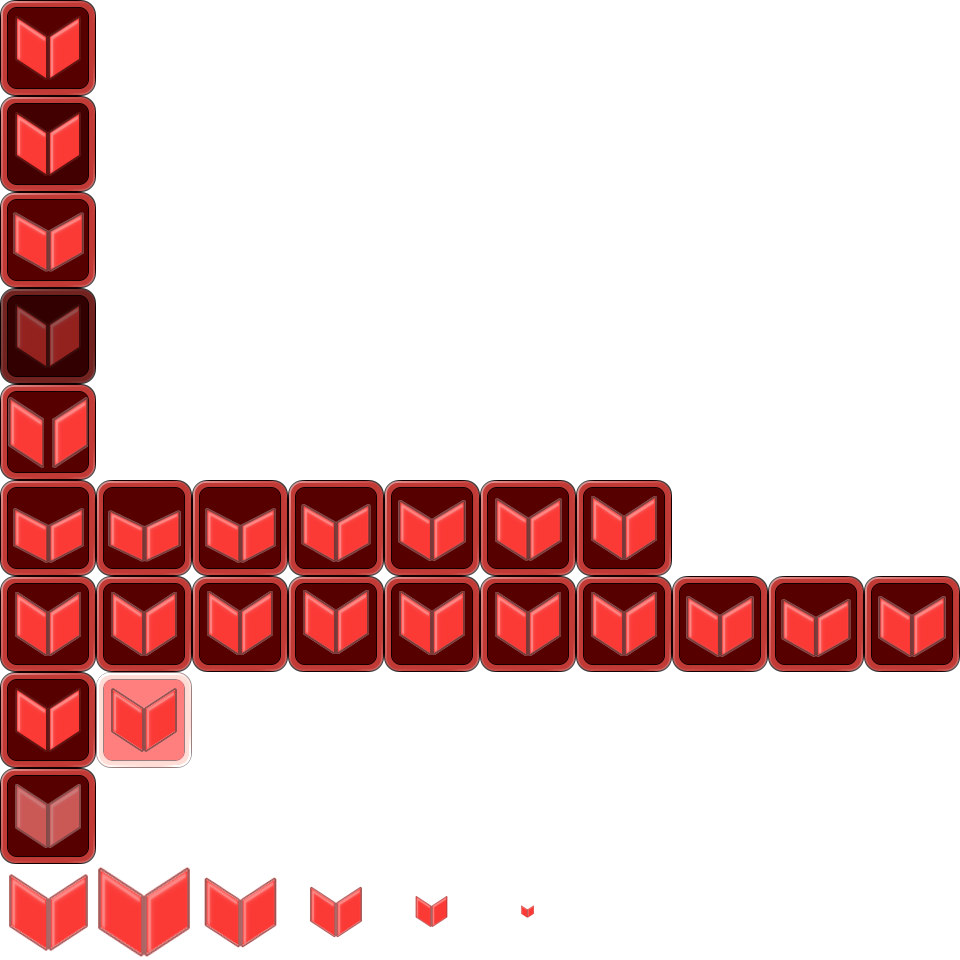
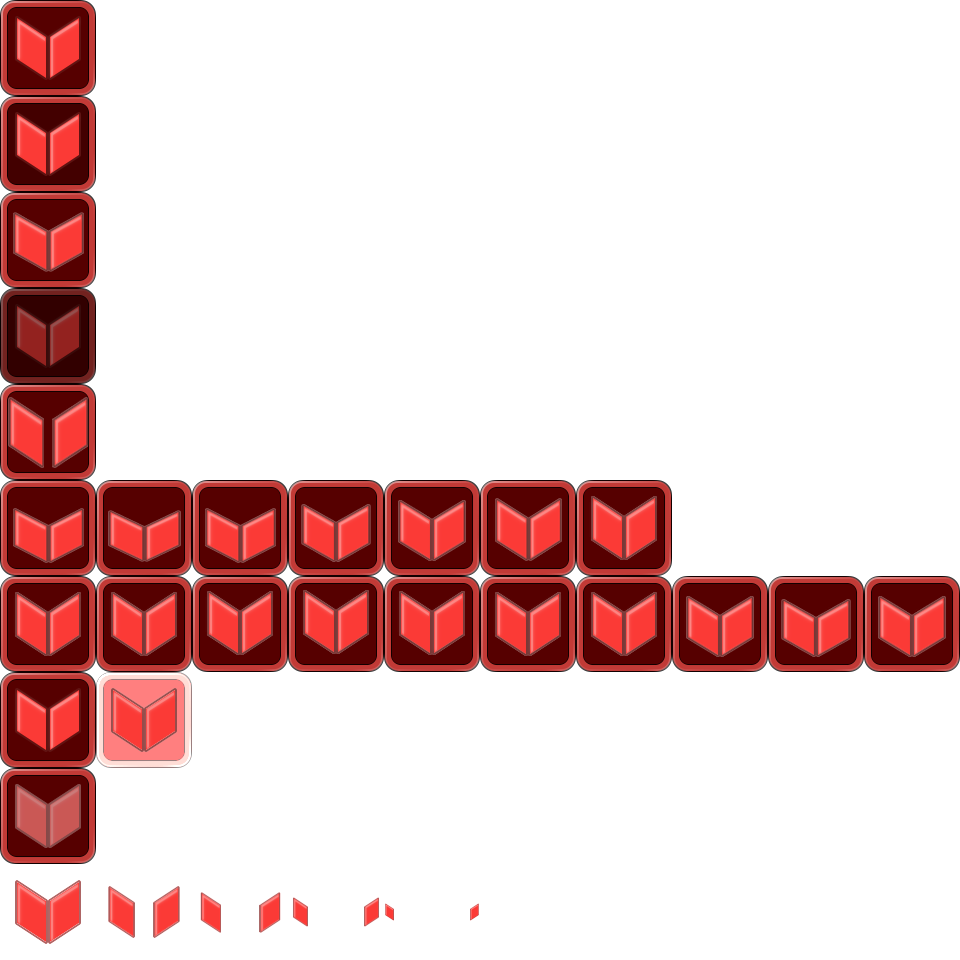
Add support for resizing split and use it for pop animation

Changed region(s): [[0.0, 0.9062, 0.5, 1.0], [0.5312, 0.9375, 0.5625, 0.9688]]

diff --git a/Panels/CreatePanels.py b/Panels/CreatePanels.py
@@ -139,12 +139,14 @@ class Sheet:
     return splitType
               
   # Builds an animation with the shapes transformed by a set of animations of: xOffset, yOffset, xScale, yScale
-  def buildAnimationWithShapeTransforms(self, shapeTransformAnimations, shouldSplit):
+  def buildAnimationWithShapeTransforms(self, shapeTransformAnimations, shouldSplit, baseImage, includeBorder=True):
       self.startAnimation()
       for animation in shapeTransformAnimations:
         splitType = self.splitTypeForIndex(self.index, shouldSplit)
-
-        panelImage = self.backgroundImage.copy()
+        if baseImage == None:
+           panelImage = self.backgroundImage.copy()
+        else:
+           panelImage = baseImage.copy()
         newWidth = int(animation[2] * self.panelSize[0])
         newHeight = int(animation[3] * self.panelSize[1])
         squishedShapeImage = self.shapeImage.resize([newWidth, newHeight])
@@ -185,7 +187,8 @@ class Sheet:
           yOffset = -int(animation[0] * self.panelSize[1]) + int(self.panelSize[1] / 2)
           panelImage.paste(splitImage, (xOffset, yOffset), splitImage)
         
-        panelImage = Image.alpha_composite(panelImage, self.borderImage)
+        if includeBorder:
+          panelImage = Image.alpha_composite(panelImage, self.borderImage)
         self.addFrame(panelImage)
       self.endAnimation()
 
@@ -193,7 +196,7 @@ class Sheet:
       # xOffset, yOffset, xScale, yScale
       animations = [[0, 0.03, 1.082, 0.92],
                     ]
-      self.buildAnimationWithShapeTransforms(animations, 0)
+      self.buildAnimationWithShapeTransforms(animations, 0, None)
 
   def buildDimmedAnimation(self):
     self.startAnimation()
@@ -205,7 +208,7 @@ class Sheet:
   def buildDeadAnimation(self):
     # xOffset, yOffset, xScale, yScale
     animations = [[-0.05, 0, 1.1, 1.1]]
-    self.buildAnimationWithShapeTransforms(animations, 1)
+    self.buildAnimationWithShapeTransforms(animations, 1, None)
   
   def buildLandingAnimation(self):
       # xOffset, yOffset, xScale, yScale
@@ -217,7 +220,7 @@ class Sheet:
                     [0, 0.015, 1.0125, 0.975],
                     [0, 0, 1, 1]
                     ]
-      self.buildAnimationWithShapeTransforms(animations, 0)
+      self.buildAnimationWithShapeTransforms(animations, 0, None)
 
   def buildShineDangerAnimation(self):
       self.startAnimation()
@@ -270,7 +273,7 @@ class Sheet:
                     ]
       if self.panelConfig.dangerBounceReduced:
         animations = map(lambda animation: [animation[0]/2, animation[1]/2, ((animation[2]-1)/2)+1, ((animation[3]-1)/2)+1], animations)
-      self.buildAnimationWithShapeTransforms(animations, 0)
+      self.buildAnimationWithShapeTransforms(animations, 0, None)
   
   def buildFlashAnimation(self):
       self.startAnimation()
@@ -297,24 +300,15 @@ class Sheet:
       self.endAnimation()
 
   def buildPopAnimation(self):
-      self.startAnimation()
       multiplier = 1
-      multiplierIncrement = 0.2
-      multiplierDecrement = 0.3
+      multiplierDecrement = 0.18
+      animations = []
       for x in range(0, self.panelConfig.popAnimationCount):
-        if x >= 2:
-          multiplier -= multiplierDecrement
-        else:
-          multiplier += multiplierIncrement
-        panelImage = Image.new('RGBA', self.panelSize, (255, 0, 0, 0))
-        newSize = int(self.panelSize[0]*multiplier)
-        resizedShapeImage = self.shapeImage.resize((newSize, newSize))
-        resizedShapeImageSize = resizedShapeImage.size
-        offset = -1 * int((resizedShapeImageSize[0]-self.panelSize[0])/2)
-        panelImage.paste(resizedShapeImage, (offset, offset), resizedShapeImage)
-        self.addFrame(panelImage)
-      self.endAnimation()
-
+        offset = x * -0.1
+        animations.append([offset, 0, multiplier, multiplier])
+        multiplier -= multiplierDecrement
+      baseImage = Image.new('RGBA', self.panelSize, (255, 0, 0, 0))
+      self.buildAnimationWithShapeTransforms(animations, 1, baseImage, False)
 
 class PanelsConfig:
   def __init__(self, baseFolder):
